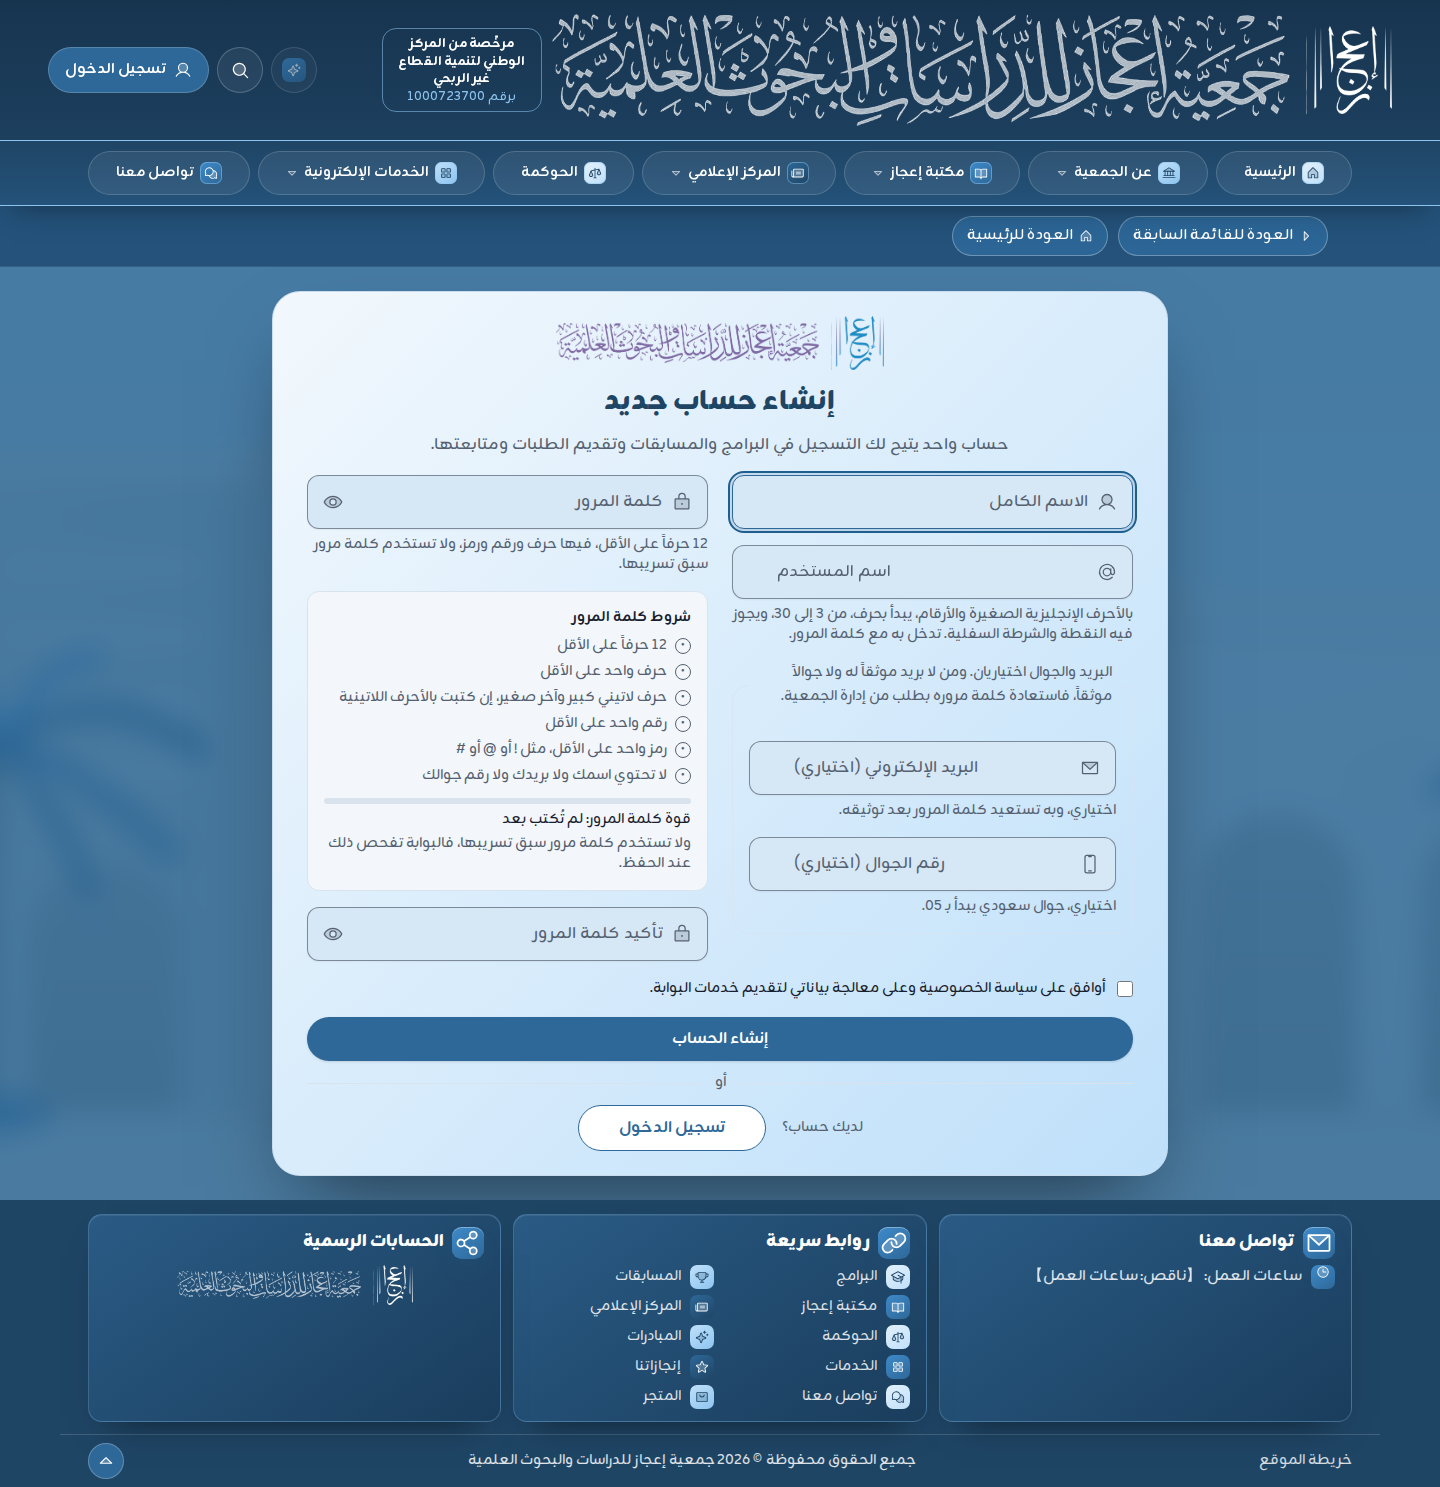
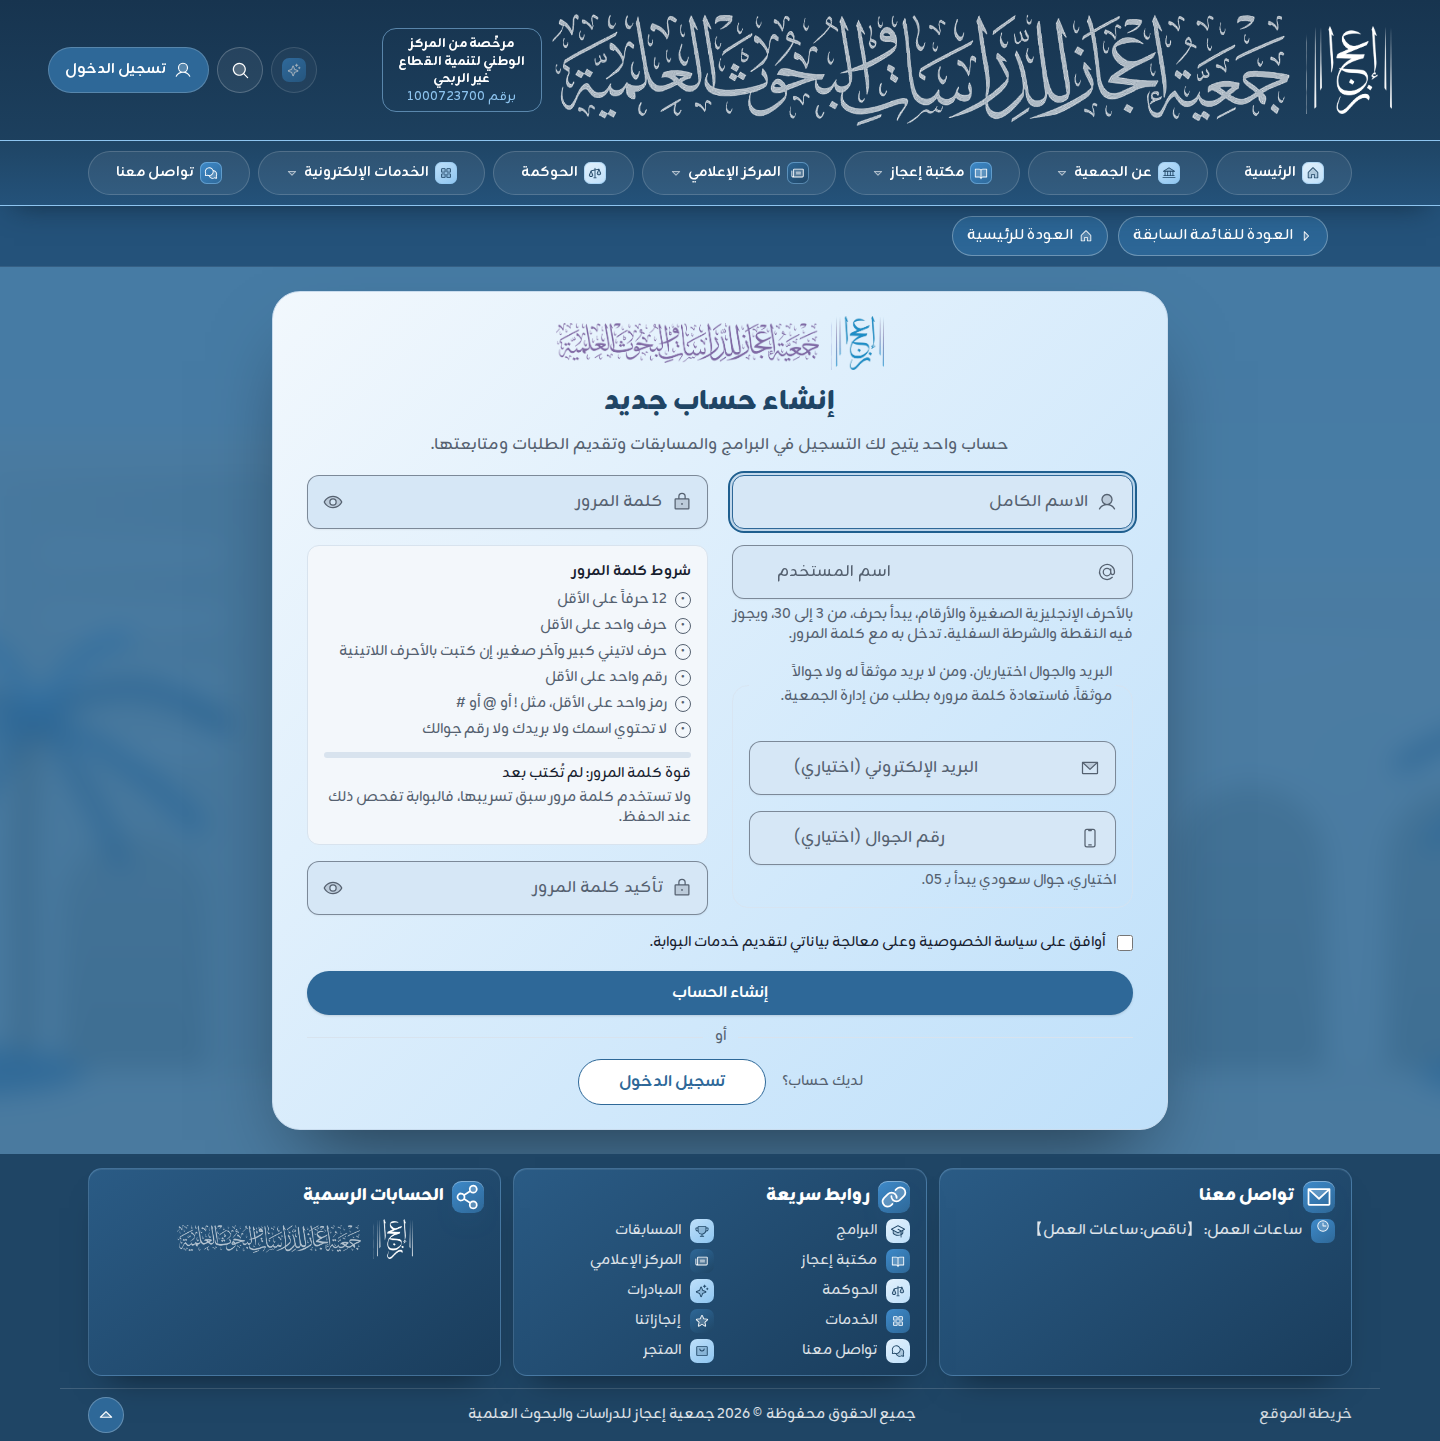
fix(ui): one query for the programme sections, shorter registration form, guide and tests after the full check

diff --git a/app/Http/Controllers/ProgramController.php b/app/Http/Controllers/ProgramController.php
@@ -10,6 +10,7 @@ use App\Models\ProgramType;
 use App\Support\LibraryProgramProgress;
 use Illuminate\Contracts\View\View;
 use Illuminate\Database\Eloquent\Builder;
+use Illuminate\Database\Eloquent\Collection;
 use Illuminate\Http\RedirectResponse;
 use Illuminate\Http\Request;
 use Illuminate\Http\Response;
@@ -24,6 +25,9 @@ class ProgramController extends Controller
 
     /** بطاقات كل نوع في مقطعه، وما زاد في «عرض الكل» */
     public const PER_SECTION = 6;
+
+    /** القادمة بأقربها موعداً، ثم المنتهية بأحدثها */
+    private const ORDER = 'case when coalesce(ends_at, starts_at) > now() then 0 else 1 end, case when coalesce(ends_at, starts_at) > now() then starts_at end asc, starts_at desc, id';
 
     public function index(Request $request): View|RedirectResponse
     {
@@ -41,9 +45,15 @@ class ProgramController extends Controller
         if ($active === null) {
             abort_if($request->integer('page', 1) > 1, 404);
 
+            // استعلام واحد لكل الأنواع مهما كثرت: ترتيب البرنامج في نوعه (row_number)، وواحد زائد على المقطع يُظهر «عرض الكل»
+            $ranked = Program::query()->published()->withConfirmedCount()
+                ->selectRaw('row_number() over (partition by program_type_id order by '.self::ORDER.') as section_rank');
+            $byType = Program::query()->fromSub($ranked, 'programs')->where('section_rank', '<=', self::PER_SECTION + 1)
+                ->orderByRaw(self::ORDER)->get()->groupBy('program_type_id');
+
             $sections = $types->map(fn (ProgramType $programType): array => [
                 'type' => $programType,
-                'programs' => self::listing()->where('program_type_id', $programType->id)->limit(self::PER_SECTION + 1)->get()
+                'programs' => ($byType->get($programType->id) ?? new Collection)
                     ->each(fn (Program $program) => $program->setRelation('type', $programType)),
             ]);
 
@@ -67,13 +77,7 @@ class ProgramController extends Controller
      */
     private static function listing(): Builder
     {
-        return Program::query()
-            ->published()
-            ->withConfirmedCount()
-            ->orderByRaw('case when coalesce(ends_at, starts_at) > now() then 0 else 1 end')
-            ->orderByRaw('case when coalesce(ends_at, starts_at) > now() then starts_at end asc')
-            ->orderByDesc('starts_at')
-            ->orderBy('id');
+        return Program::query()->published()->withConfirmedCount()->orderByRaw(self::ORDER);
     }
 
     public function show(Request $request, string $slug): Response

diff --git a/resources/views/auth/register.blade.php b/resources/views/auth/register.blade.php
@@ -1,5 +1,6 @@
 {{-- على الحاسوب عمودان (ملاحظات المدير التنفيذي، 4 نوفمبر 2026): الاسم واسم المستخدم والبريد والجوال، ثم كلمة المرور وشروطها وتأكيدها،
-     فتقصر البطاقة. وعلى الجوال عمود واحد بالترتيب نفسه --}}
+     فتقصر البطاقة. وعلى الجوال عمود واحد بالترتيب نفسه. ونموذج أقصر (إضافة المشرف 01:14): بلا تلميح كلمة المرور (شروطها تحتها
+     بنصها) ولا تلميح البريد (ملاحظة «اختياريان» فوقه تقول ما فيه) --}}
 <x-layouts.auth :title="__('account.register.title')" :intro="__('account.register.intro')" wide>
     <form method="POST" action="{{ route('register.store') }}" class="space-y-4" novalidate>
         @csrf
@@ -18,7 +19,7 @@
                     <legend class="px-1 text-sm leading-6 text-muted">{{ __('account.register.optional_note') }}</legend>
 
                     <x-field name="email" type="email" :label="__('account.register.email')" :placeholder="__('account.register.email_placeholder')" icon="envelope" hide-label
-                        :hint="__('account.register.email_hint')" autocomplete="email" dir="auto" />
+                        autocomplete="email" dir="auto" />
 
                     <x-field name="phone" type="tel" :label="__('account.register.phone')" :placeholder="__('account.register.phone_placeholder')" icon="device-phone-mobile" hide-label
                         :hint="__('account.register.phone_hint')" autocomplete="tel" inputmode="tel" dir="auto" />
@@ -27,7 +28,7 @@
 
             <div class="space-y-4">
                 <x-field name="password" type="password" :label="__('account.register.password')" :placeholder="__('account.register.password')" icon="lock-closed" hide-label
-                    :hint="__('account.register.password_hint')" autocomplete="new-password" required />
+                    autocomplete="new-password" required />
 
                 <x-password-rules />
 

diff --git a/database/data/assistant-guide.php b/database/data/assistant-guide.php
@@ -228,11 +228,11 @@ return [
         'route' => 'programs.index',
         'steps' => [
             'افتح صفحة «الدورات والبرامج».',
-            'اختر «جميع البرامج» أو أحد تبويبات الأنواع لتصفية البرامج.',
+            'اضغط نوعاً من شريط الأنواع أعلى الصفحة فتنزل إلى برامجه في الصفحة نفسها، و«عرض الكل» لبقية برامج النوع إن كثرت.',
             'تُظهر كل بطاقة حالة البرنامج: قريباً، أو مفتوح، أو مكتمل، أو منتهٍ، مع موعده ونوعه.',
             'اضغط «سجّل الآن» في البرنامج المفتوح، أو «التفاصيل» في غيره، لترى الموعد وطريقة التنفيذ والمكان والمقاعد المتاحة وشروط التسجيل.',
         ],
-        'labels' => ['programs.title', 'programs.tabs.all', 'programs.list.register', 'programs.list.details'],
+        'labels' => ['programs.title', 'site.view_all', 'programs.list.register', 'programs.list.details'],
     ],
 
     [

diff --git a/tests/Feature/Content/DirectorHomeNov3Test.php b/tests/Feature/Content/DirectorHomeNov3Test.php
@@ -588,12 +588,13 @@ it('shows a single library hero image without rotation markup, and the neutral p
         ->toContain('src="'.Storage::disk('public')->url('library/only.jpg').'"');
 });
 
-it('always shows the satisfaction card with no open survey: nine services and a link that opens', function () {
+it('always shows the satisfaction card with no open survey: eight services and a link that opens', function () {
     $html = (string) $this->get('/services')->assertOk()->getContent();
     $grid = (string) str($html)->after('data-service-grid')->before('</ul>');
 
     expect($grid)->toContain('href="'.route('surveys.index').'"')->toContain(e(__('services.tiles.surveys')))
-        ->and(substr_count($grid, 'class="service-card group"'))->toBe(9);
+        // ثمانٍ منذ انتقال «المبادرات» إلى «عن الجمعية» (ملاحظات المدير التنفيذي، ليلة 4 نوفمبر 2026)
+        ->and(substr_count($grid, 'class="service-card group"'))->toBe(8);
 
     $this->get(route('surveys.index'))->assertOk()->assertSee(__('surveys.public.none'))->assertSee('data-surveys-none', false);
 });

diff --git a/tests/Feature/DirectorNotes/DirectorNotesNov1Test.php b/tests/Feature/DirectorNotes/DirectorNotesNov1Test.php
@@ -270,7 +270,8 @@ it('keeps every editor item of a dropdown, even one sharing the parent link, and
         ['id' => 3, 'label' => 'اللوائح والسياسات', 'url' => '/governance?category=policies', 'opens_in_new_tab' => false],
     ]]);
 
-    expect(array_column($children, 'label'))->toBe(['عن الجمعية', 'التوجه الاستراتيجي', 'اللوائح والسياسات'])
+    // و«المبادرات» قسم مولَّد بعد الأم منذ انتقالها من الخدمات (ملاحظات المدير التنفيذي، ليلة 4 نوفمبر 2026)
+    expect(array_column($children, 'label'))->toBe(['عن الجمعية', 'المبادرات', 'التوجه الاستراتيجي', 'اللوائح والسياسات'])
         ->and($children[0]['is_parent'] ?? false)->toBeTrue();
 });
 

diff --git a/docs/decisions/2026-11-05-director-nov4-ui.md b/docs/decisions/2026-11-05-director-nov4-ui.md
@@ -5,6 +5,7 @@
 ## ما تقرر
 
 1. **مخطوطة رأس الصفحات الداخلية أكبر قليلاً:** من 22rem إلى 25rem على الجوال (بحد 88% من عرض الشاشة)، ومن 30rem إلى 35rem على الحاسوب. والأيقونات كما هي.
+   - مثال الحوكمة (إضافة المشرف، 01:14): رأسها هو المكوّن نفسه (`x-page-hero`) بالمخطوطة وحركة الدخول نفسيهما في كل الصفحات الداخلية، فلا فرق يُنقل. وما يميزها شريط التصنيفات الثابت ينزل تحته المحتوى، وهو ما طُبّق على «الدورات والبرامج» (البند ٤).
 2. **«تواصل معنا» بلا تكرار:**
    - مقدمة «الاستفسارات والاقتراحات» المنشورة من الموقع السابق (`Page::INTROS`) نصها الفقرة الثانية في الرأس نفسها، فلا تُعرض تحته مرة ثانية.
    - بالآلية القائمة لمقدمة «تواصل معنا» (`except` في `x-page-intro`). ونص آخر فيها يظهر كما كان.
@@ -12,11 +13,13 @@
    - على 1440×900 تنتهي البطاقة عند 866 بكسل، وكانت عند 1091.
    - من 1024 بكسل: مسافات أقل، والعنوان 28 بكسل، وصورة أسفل البطاقة مخفية. والجوال كما كان.
    - **التسجيل** بعمودين (`wide` في `x-layouts.auth`): الاسم واسم المستخدم والبريد والجوال في عمود، وكلمة المرور وشروطها وتأكيدها في الآخر.
-   - فقصرت بطاقة التسجيل من 1,685 بكسل إلى 885، ولا تزال تتطلب تمريراً نحو 280 بكسل على 1440×900. المساحة تحت الرأس 633 بكسل، ولا يتسع لها نموذج التسجيل بحقوله وشروط كلمة المرور إلا بحذف شيء منها. ومجموعة «الدخول بالجوال» (ب) تحذف حقل اسم المستخدم فتقصر البطاقة أكثر.
+   - ونموذج التسجيل أقصر (إضافة المشرف، 01:14): حُذف تلميح كلمة المرور، لأن شروطها تحتها بنصها، وتلميح البريد، لأن ملاحظة «البريد والجوال اختياريان» فوقه تقول ما فيه. والحقول كلها باقية.
+   - فقصرت بطاقة التسجيل على 1440×900 من 1,685 بكسل إلى 839، ولا تزال تتطلب تمريراً نحو 230 بكسل. المساحة تحت الرأس 633 بكسل، ولا يتسع لها النموذج بحقوله وشروط كلمة المرور إلا بحذف شيء منها. ومجموعة «الدخول بالجوال» (ب) تحذف حقل اسم المستخدم وتلميحه (ثلاثة أسطر)، فتقصر البطاقة أكثر.
 4. **«الدورات والبرامج» بشريط أيقونات واحد** بدل التبويبات وبطاقات المحور:
    - كل نوع من اللوحة مربع بأيقونته واسمه، كتصنيفات الحوكمة.
    - الضغط على نوع مرساة (`#programs-<slug>`) تُنزل إلى مقطعه في الصفحة نفسها بلا تحميل، و«المسابقات» آخر الشريط إلى صفحتها.
    - في الصفحة مقطع لكل نوع بست بطاقات على الأكثر، و«عرض الكل» إلى قائمة النوع (`?type=`) متى زادت. وقائمة النوع باقية بترقيمها للروابط القديمة.
+   - المقاطع كلها باستعلام واحد مهما كثرت الأنواع (`row_number()` لكل نوع)، فلا يزيد عدد الاستعلامات بعدد الأنواع (`QueryBudgetTest`).
    - أيقونة النوع من `ProgramType::ICONS` بمعرّفه المبذور، وما أضافته اللوحة بعده بأيقونة عامة. ولا عمود جديد.
 5. **«المبادرات» في «عن الجمعية» لا في «الخدمات الإلكترونية»:**
    - حُذفت من بطاقات صفحة الخدمات (`config/eservices.php`)، ومن قائمتها المنسدلة، ومن شريط «خدماتنا» في الرئيسية.
